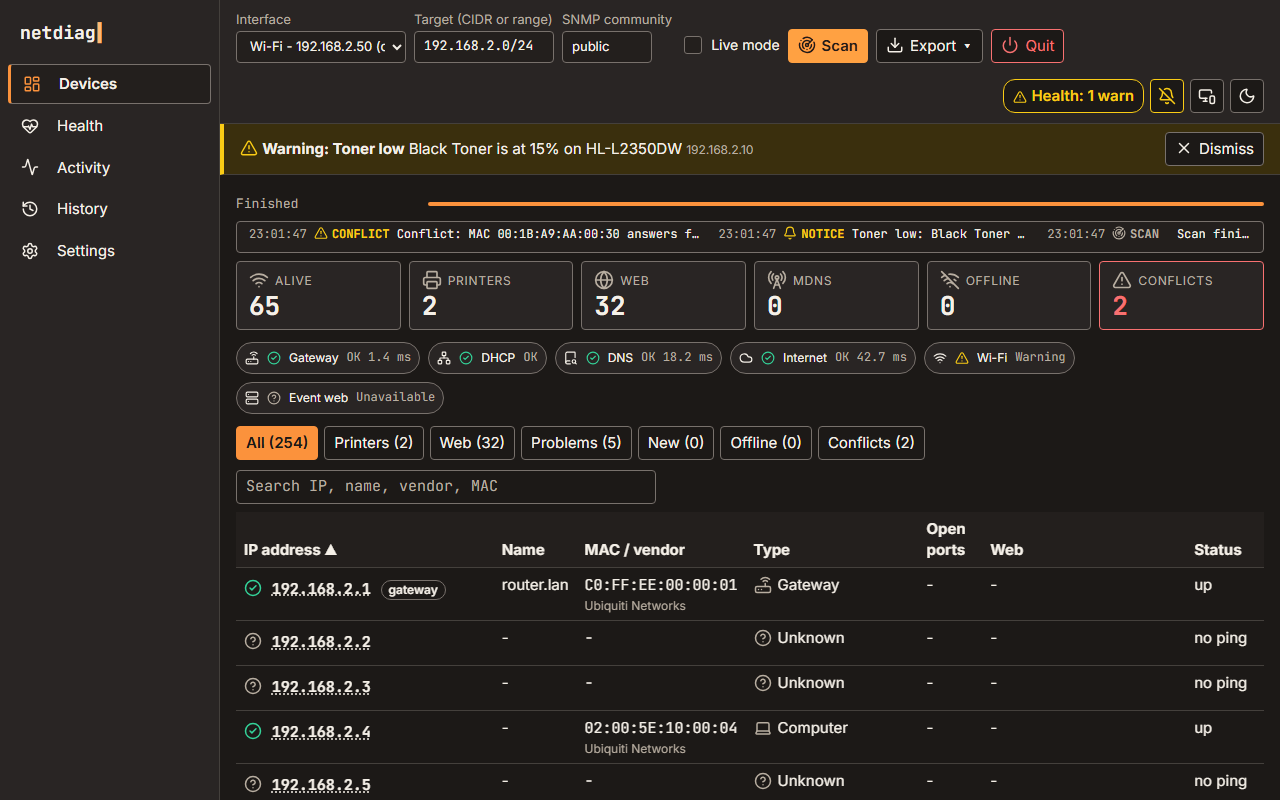
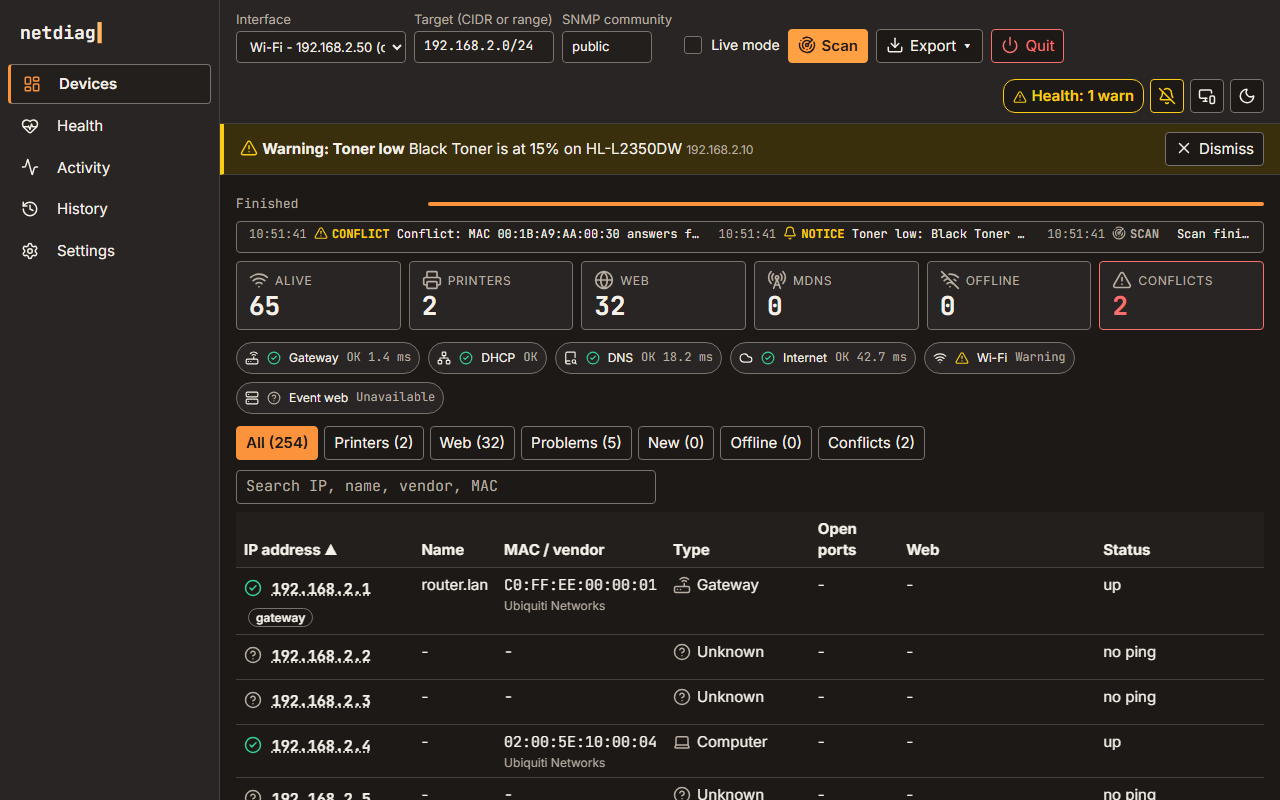
Release netdiag v0.5.3: one page scroller, no nested scroll boxes
- Devices table no longer has its own height-capped scroll box; the
  page scrolls. From 1100px the table fits the content width and its
  header sticks to the page just under the sticky alert banners
  (--stick-top kept in sync by a ResizeObserver). Below 1100px the
  table still scrolls sideways in its box, with a one-line IP cell.
- Fitting at 1100px: IP badges, type labels and web URLs may wrap.
- Activity log grows with the page instead of a fixed 60vh box; it
  follows new lines while the page is at the bottom and jumps to the
  newest line when the view opens.
- New Playwright guard (tests/scroll.spec.mjs): no nested vertical
  scrollers in any view at 390/768/1100/1440, header sticks under the
  banners, and a full log follows the newest line.

diff --git a/web/styles.css b/web/styles.css
@@ -148,7 +148,11 @@ ul.hstrip{display:flex;flex-wrap:wrap;gap:var(--s2);margin:var(--s3) 0 0;padding
 /* T5: device table + drawer */
 .searchrow{margin:var(--s2) 0}.searchrow input{width:100%;max-width:420px}
 /* position:relative keeps the .sr spans inside these scrollers, so they cannot widen the page. */
-.tablewrap{position:relative;max-height:calc(100vh - 150px);overflow:auto}
+/* The page is the only vertical scroller. Wide tables scroll sideways in their own box on
+   narrow screens; from 1100px the table fits, so the box is plain and headers stick to the page. */
+.tablewrap{position:relative;overflow-x:auto}
+@media (min-width:1100px){.tablewrap{overflow:visible}#hosts thead th{top:var(--stick-top,0px)}}
+@media (max-width:1099px){#hosts tbody th[scope=row]{white-space:nowrap}}
 .tablescroll{position:relative;overflow-x:auto;max-width:100%}
 thead th{position:sticky;top:0;z-index:2;background:var(--bg-elev2);box-shadow:0 1px 0 var(--line-strong)}
 tr.host{cursor:pointer}tr.host:hover>th,tr.host:hover>td{background:var(--bg-elev)}
@@ -157,7 +161,7 @@ tr.host.selected>th{box-shadow:inset 3px 0 0 var(--accent)}
 .rowbtn{border:0;background:none;padding:0 2px;font-weight:700;color:var(--fg);text-decoration:underline dotted;cursor:pointer}
 .sdot{display:inline-block;width:10px;height:10px;border-radius:50%;margin-right:6px;vertical-align:middle;box-sizing:border-box}
 .sdot.st-up{background:var(--ok)}.sdot.st-down{background:var(--warn)}.sdot.st-off{background:transparent;border:2px solid var(--fg-muted)}
-.typecell{display:inline-flex;align-items:center;gap:6px;white-space:nowrap}
+.typecell{display:inline-flex;align-items:center;gap:6px}
 .ico{width:18px;height:18px;flex:none;color:var(--fg-muted)}.ico.big{width:28px;height:28px;color:var(--link)}
 .iconbtn{display:inline-flex;align-items:center;justify-content:center;padding:3px;line-height:1;cursor:pointer}
 .drawer{position:fixed;top:0;right:0;bottom:0;width:min(480px,100vw);z-index:30;overflow-y:auto;background:var(--bg-elev);border-left:1px solid var(--line-strong);box-shadow:-8px 0 24px var(--shadow-soft)}
@@ -169,7 +173,7 @@ tr.host.selected>th{box-shadow:inset 3px 0 0 var(--accent)}
 .logbar{display:flex;gap:var(--s3);flex-wrap:wrap;align-items:center;justify-content:space-between;margin:var(--s2) 0}
 .logfilters{display:flex;gap:var(--s2);flex-wrap:wrap}
 .logchip[aria-pressed=false]{opacity:.7;text-decoration:line-through}
-.logbox{background:var(--bg-elev2);border:1px solid var(--line-strong);border-radius:var(--radius);padding:var(--s3);height:60vh;min-height:200px;overflow:auto;font-size:13px}
+.logbox{background:var(--bg-elev2);border:1px solid var(--line-strong);border-radius:var(--radius);padding:var(--s3);min-height:200px;font-size:13px}
 .logline{white-space:pre-wrap;overflow-wrap:anywhere;line-height:1.5}
 .lt{color:var(--fg-muted)}.lk{display:inline-block;min-width:8ch;font-weight:700}
 .k-scan{color:var(--fg-muted)}.k-host{color:var(--ok)}.k-offline,.k-error{color:var(--bad)}.k-online{color:var(--ok)}.k-conflict,.k-notice{color:var(--warn)}.k-health{color:var(--info)}
@@ -251,7 +255,8 @@ tr.host.isnew{animation:rowin .6s ease-out}
 .kv dl div{align-items:center;min-height:30px}
 .kv dd{display:flex;align-items:center;gap:var(--s2);flex-wrap:wrap}
 .kv .iconbtn{padding:2px 4px;line-height:0}
-#hosts tbody th[scope=row]{white-space:nowrap}
+#hosts .rowbtn{white-space:nowrap}
+#hosts td a{overflow-wrap:anywhere}
 #hosts tbody th[scope=row] .badge{white-space:nowrap}
 .stline{display:flex;flex-wrap:wrap;align-items:center;gap:4px 6px}.stline .badge{margin-left:0}
 .stdet{font-size:13px;color:var(--fg-muted);margin-top:2px}

diff --git a/web/app.js b/web/app.js
@@ -27,8 +27,9 @@ document.addEventListener('alpine:init', () => {
     logLine(e) { return this.logTime(e) + '  ' + e.kind.toUpperCase().padEnd(8) + ' ' + e.text; },
     logText() { return this.logShown().map(e => this.logLine(e)).join('\n'); },
     logRecent() { return this.log.slice(-3); },
-    logOnScroll(el) { this.logStick = el.scrollTop + el.clientHeight >= el.scrollHeight - 8; },
-    logFollow(el) { if (el && this.logStick) this.$nextTick(() => { el.scrollTop = el.scrollHeight; }); },
+    // The log grows with the page (no inner scroller); follow new lines while the page is scrolled to the bottom.
+    logOnScroll() { const d = document.documentElement; this.logStick = d.scrollTop + d.clientHeight >= d.scrollHeight - 8; },
+    logFollow() { if (this.view === 'activity' && this.logStick) this.$nextTick(() => { const d = document.documentElement; d.scrollTop = d.scrollHeight; }); },
     logHealth(prev, cur) {
       if (!prev || !cur) return;
       const old = {};
@@ -95,6 +96,9 @@ document.addEventListener('alpine:init', () => {
       try { const sv = localStorage.getItem('netdiag.view'); if (this.views.includes(sv)) this.view = sv; } catch (e) {}
       if (this.view === 'history') this.loadHistory();
       setInterval(() => { this.nowMs = Date.now(); }, 1000);
+      // Sticky table headers sit just under the sticky alert banners.
+      const bn = document.getElementById('alerts');
+      if (bn && window.ResizeObserver) new ResizeObserver(() => document.documentElement.style.setProperty('--stick-top', bn.offsetHeight + 'px')).observe(bn);
       try {
         const r = await fetch('/api/interfaces');
         this.ifaces = (await r.json()) || [];
@@ -273,6 +277,7 @@ document.addEventListener('alpine:init', () => {
       this.navOpen = false;
       try { localStorage.setItem('netdiag.view', v); } catch (e) {}
       if (v === 'history') await this.loadHistory();
+      if (v === 'activity') { this.logStick = true; this.logFollow(); }
     },
     async loadHistory() {
       this.historyError = '';

diff --git a/web/index.html b/web/index.html
@@ -365,8 +365,8 @@
         </div>
         <button type="button" id="log-copy" @click="copy(logText(), 'activity log')"><svg class="ico" aria-hidden="true" focusable="false"><use href="icons.svg#i-copy"></use></svg>Copy log</button>
       </div>
-      <div id="log" class="logbox mono" role="log" aria-label="Activity log" aria-live="off" tabindex="0" x-ref="logBox"
-           @scroll.passive="logOnScroll($el)" x-effect="logShown().length; logFollow($refs.logBox)">
+      <div id="log" class="logbox mono" role="log" aria-label="Activity log" aria-live="off"
+           @scroll.window.passive="logOnScroll()" x-effect="logShown().length; logFollow()">
         <p class="empty" x-show="!log.length">&gt; no events yet - start a scan</p>
         <template x-for="e in logShown()" :key="e.id">
           <div class="logline"><span class="lt" x-text="logTime(e)"></span> <span class="lk" :class="'k-' + e.kind"><svg class="ico" aria-hidden="true" focusable="false"><use :href="'icons.svg#i-' + kindIcon(e.kind)"></use></svg><span x-text="e.kind.toUpperCase()"></span></span> <span class="lx" x-text="e.text"></span></div>
